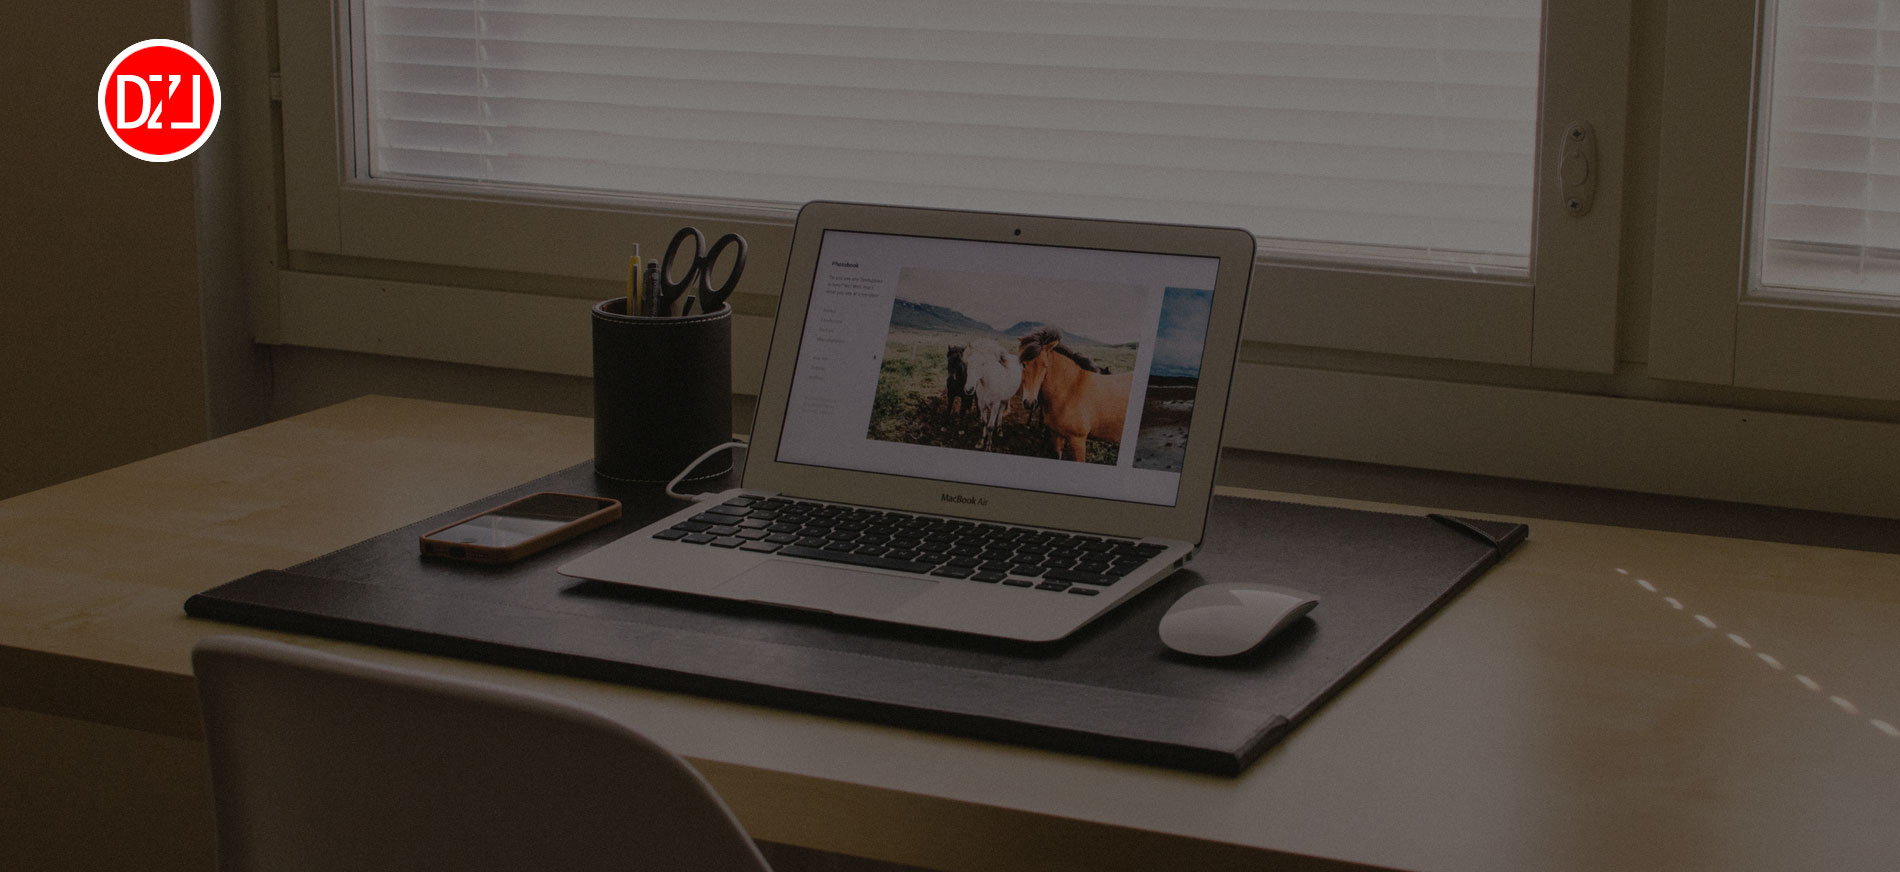
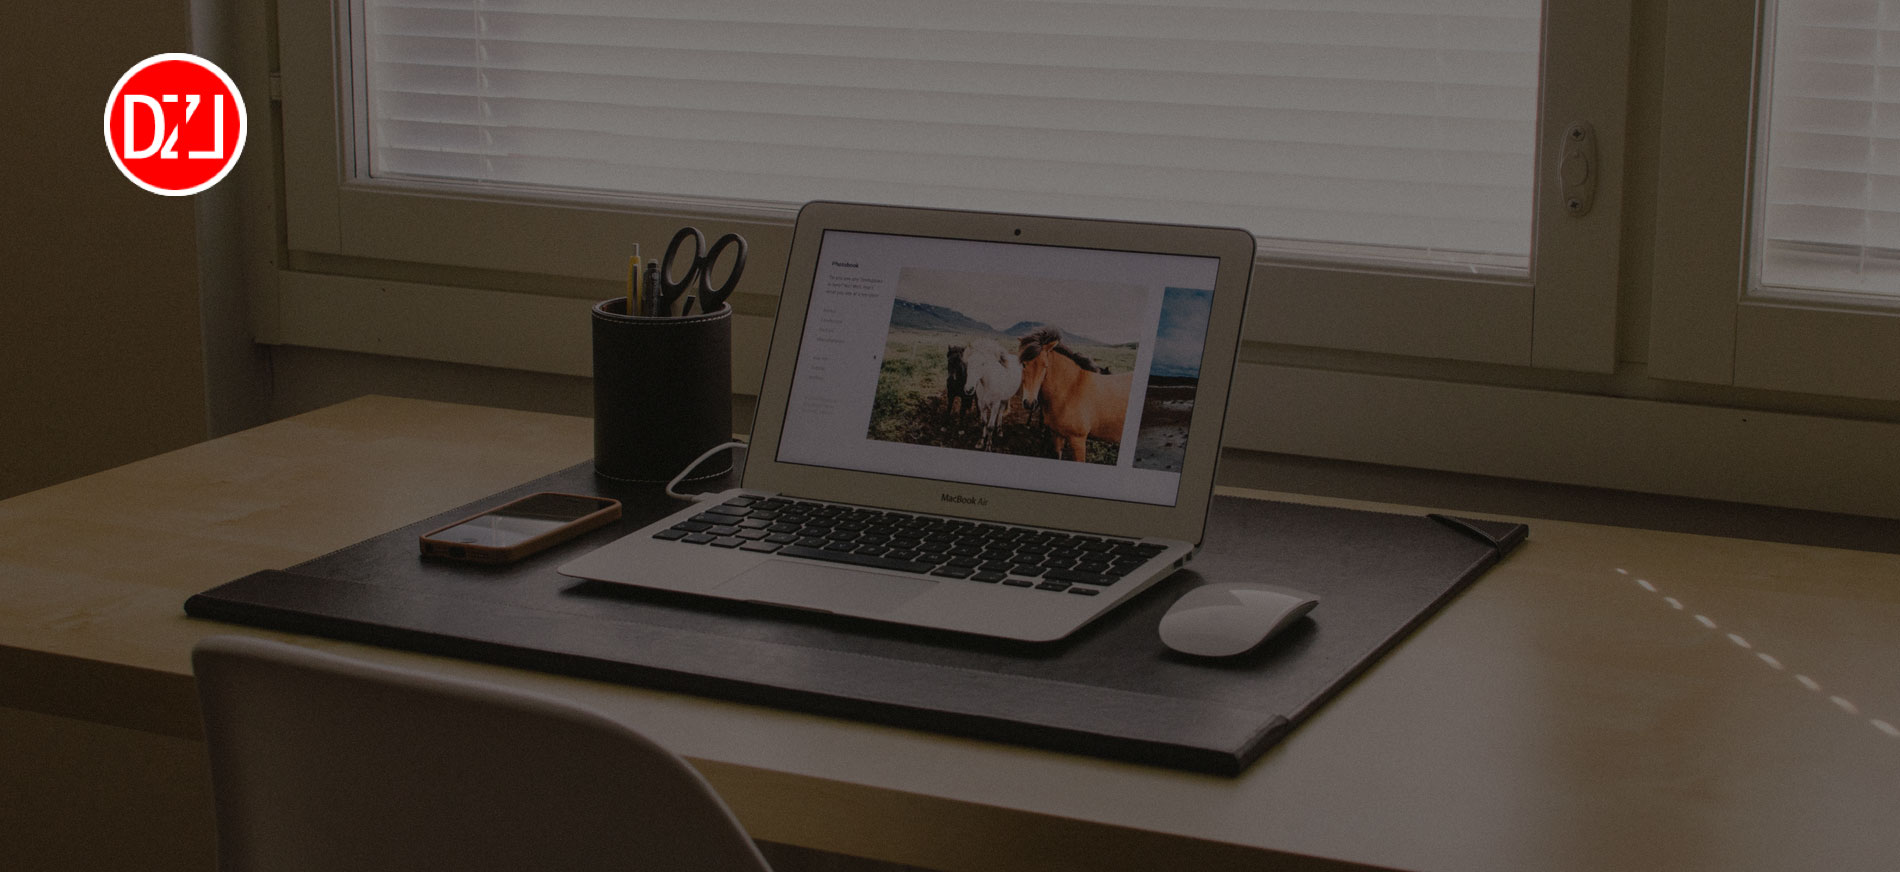
Site updated: 2016-07-24 15:43:05

Changed region(s): [[0.0311, 0.031, 0.1553, 0.2477]]

diff --git a/archives/index.html b/archives/index.html
@@ -44,7 +44,7 @@
 
     <!-- Title -->
     
-    <title>Archives - DOU Zhili</title>
+    <title>Archiv - DOU Zhili</title>
 
     <!-- Bootstrap Core CSS -->
     <link href="//maxcdn.bootstrapcdn.com/bootstrap/3.3.6/css/bootstrap.min.css" rel="stylesheet"/>
@@ -88,7 +88,7 @@
                 <span class="icon-bar"></span>
                 <span class="icon-bar"></span>
             </button>
-            <a class="navbar-brand" href="/"><br><br> Technology and Life</a>
+            <a class="navbar-brand" href="/"><br><br><br> Technology and Life</a>
         </div>
 
         <!-- Collect the nav links, forms, and other content for toggling -->
@@ -160,7 +160,7 @@
         <div class="row">
             <div class="col-lg-8 col-lg-offset-2 col-md-10 col-md-offset-1">
                 <div class="site-heading">
-                    <h1>Archives</h1>
+                    <h1>Archiv</h1>
                 </div>
             </div>
         </div>
@@ -173,9 +173,9 @@
         <div class="col-lg-8 col-lg-offset-2 col-md-10 col-md-offset-1">
             
                 <div class="post-preview">
-    <a href="/2016/07/24/video_page/">
+    <a href="/2016/07/24/image_page/">
         <h1 class="post-title archive">
-            Video Test
+            Image Test
         </h1>
     </a>
     <p class="post-meta archive">
@@ -186,9 +186,9 @@
 </div>
             
                 <div class="post-preview">
-    <a href="/2016/07/24/image_page/">
+    <a href="/2016/07/24/video_page/">
         <h1 class="post-title archive">
-            Image Test
+            Video Test
         </h1>
     </a>
     <p class="post-meta archive">

diff --git a/archives/2016/07/index.html b/archives/2016/07/index.html
@@ -44,7 +44,7 @@
 
     <!-- Title -->
     
-    <title>Archives: 2016/7 - DOU Zhili</title>
+    <title>Archiv: 2016/7 - DOU Zhili</title>
 
     <!-- Bootstrap Core CSS -->
     <link href="//maxcdn.bootstrapcdn.com/bootstrap/3.3.6/css/bootstrap.min.css" rel="stylesheet"/>
@@ -88,7 +88,7 @@
                 <span class="icon-bar"></span>
                 <span class="icon-bar"></span>
             </button>
-            <a class="navbar-brand" href="/"><br><br> Technology and Life</a>
+            <a class="navbar-brand" href="/"><br><br><br> Technology and Life</a>
         </div>
 
         <!-- Collect the nav links, forms, and other content for toggling -->
@@ -173,9 +173,9 @@
         <div class="col-lg-8 col-lg-offset-2 col-md-10 col-md-offset-1">
             
                 <div class="post-preview">
-    <a href="/2016/07/24/video_page/">
+    <a href="/2016/07/24/image_page/">
         <h1 class="post-title archive">
-            Video Test
+            Image Test
         </h1>
     </a>
     <p class="post-meta archive">
@@ -186,9 +186,9 @@
 </div>
             
                 <div class="post-preview">
-    <a href="/2016/07/24/image_page/">
+    <a href="/2016/07/24/video_page/">
         <h1 class="post-title archive">
-            Image Test
+            Video Test
         </h1>
     </a>
     <p class="post-meta archive">

diff --git a/archives/2016/index.html b/archives/2016/index.html
@@ -44,7 +44,7 @@
 
     <!-- Title -->
     
-    <title>Archives: 2016 - DOU Zhili</title>
+    <title>Archiv: 2016 - DOU Zhili</title>
 
     <!-- Bootstrap Core CSS -->
     <link href="//maxcdn.bootstrapcdn.com/bootstrap/3.3.6/css/bootstrap.min.css" rel="stylesheet"/>
@@ -88,7 +88,7 @@
                 <span class="icon-bar"></span>
                 <span class="icon-bar"></span>
             </button>
-            <a class="navbar-brand" href="/"><br><br> Technology and Life</a>
+            <a class="navbar-brand" href="/"><br><br><br> Technology and Life</a>
         </div>
 
         <!-- Collect the nav links, forms, and other content for toggling -->
@@ -173,9 +173,9 @@
         <div class="col-lg-8 col-lg-offset-2 col-md-10 col-md-offset-1">
             
                 <div class="post-preview">
-    <a href="/2016/07/24/video_page/">
+    <a href="/2016/07/24/image_page/">
         <h1 class="post-title archive">
-            Video Test
+            Image Test
         </h1>
     </a>
     <p class="post-meta archive">
@@ -186,9 +186,9 @@
 </div>
             
                 <div class="post-preview">
-    <a href="/2016/07/24/image_page/">
+    <a href="/2016/07/24/video_page/">
         <h1 class="post-title archive">
-            Image Test
+            Video Test
         </h1>
     </a>
     <p class="post-meta archive">

diff --git a/index.html b/index.html
@@ -88,7 +88,7 @@
                 <span class="icon-bar"></span>
                 <span class="icon-bar"></span>
             </button>
-            <a class="navbar-brand" href="/"><br><br> Technology and Life</a>
+            <a class="navbar-brand" href="/"><br><br><br> Technology and Life</a>
         </div>
 
         <!-- Collect the nav links, forms, and other content for toggling -->
@@ -173,9 +173,9 @@
         <div class="col-lg-8 col-lg-offset-2 col-md-10 col-md-offset-1">
             
                 <div class="post-preview">
-    <a href="/2016/07/24/video_page/">
+    <a href="/2016/07/24/image_page/">
         <h2 class="post-title">
-            Video Test
+            Image Test
         </h2>
         
     </a>
@@ -188,9 +188,9 @@
 <hr>
             
                 <div class="post-preview">
-    <a href="/2016/07/24/image_page/">
+    <a href="/2016/07/24/video_page/">
         <h2 class="post-title">
-            Image Test
+            Video Test
         </h2>
         
     </a>

diff --git a/2016/07/23/hello-world/index.html b/2016/07/23/hello-world/index.html
@@ -88,7 +88,7 @@
                 <span class="icon-bar"></span>
                 <span class="icon-bar"></span>
             </button>
-            <a class="navbar-brand" href="/"><br><br> Technology and Life</a>
+            <a class="navbar-brand" href="/"><br><br><br> Technology and Life</a>
         </div>
 
         <!-- Collect the nav links, forms, and other content for toggling -->

diff --git a/2016/07/24/image_page/index.html b/2016/07/24/image_page/index.html
@@ -88,7 +88,7 @@
                 <span class="icon-bar"></span>
                 <span class="icon-bar"></span>
             </button>
-            <a class="navbar-brand" href="/"><br><br> Technology and Life</a>
+            <a class="navbar-brand" href="/"><br><br><br> Technology and Life</a>
         </div>
 
         <!-- Collect the nav links, forms, and other content for toggling -->

diff --git a/2016/07/24/video_page/index.html b/2016/07/24/video_page/index.html
@@ -88,7 +88,7 @@
                 <span class="icon-bar"></span>
                 <span class="icon-bar"></span>
             </button>
-            <a class="navbar-brand" href="/"><br><br> Technology and Life</a>
+            <a class="navbar-brand" href="/"><br><br><br> Technology and Life</a>
         </div>
 
         <!-- Collect the nav links, forms, and other content for toggling -->

diff --git a/tags/hexo/index.html b/tags/hexo/index.html
@@ -88,7 +88,7 @@
                 <span class="icon-bar"></span>
                 <span class="icon-bar"></span>
             </button>
-            <a class="navbar-brand" href="/"><br><br> Technology and Life</a>
+            <a class="navbar-brand" href="/"><br><br><br> Technology and Life</a>
         </div>
 
         <!-- Collect the nav links, forms, and other content for toggling -->

diff --git a/腾讯404公益计划/404.html b/腾讯404公益计划/404.html
@@ -88,7 +88,7 @@
                 <span class="icon-bar"></span>
                 <span class="icon-bar"></span>
             </button>
-            <a class="navbar-brand" href="/"><br><br> Technology and Life</a>
+            <a class="navbar-brand" href="/"><br><br><br> Technology and Life</a>
         </div>
 
         <!-- Collect the nav links, forms, and other content for toggling -->
